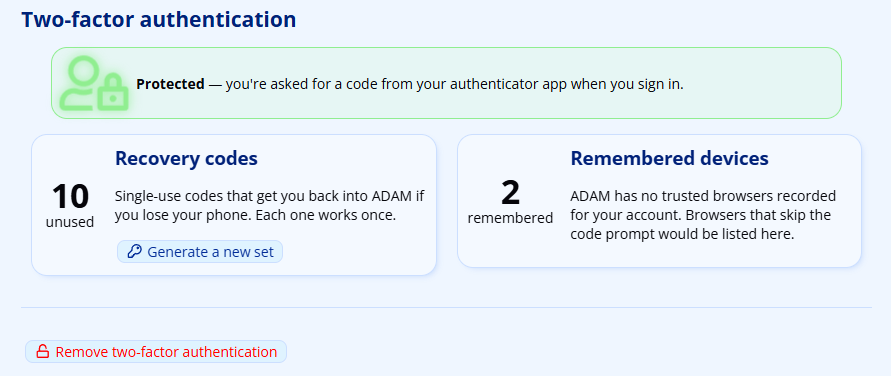
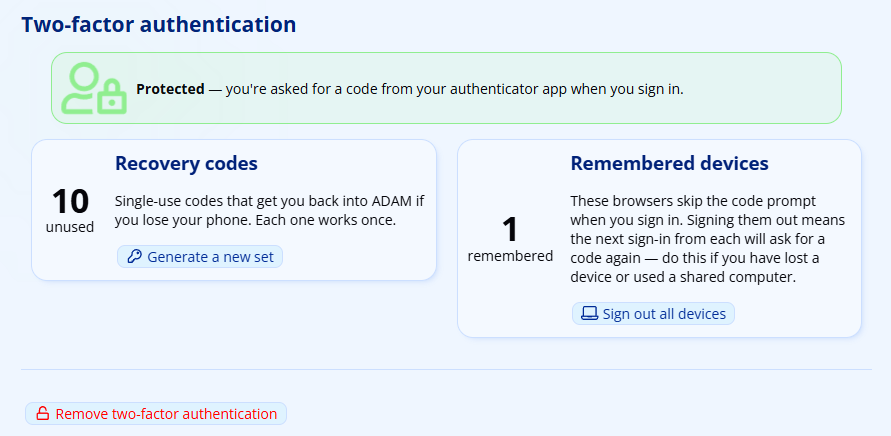
CHANGED: Use the reshot Remembered devices capture
The previous capture showed "2 remembered" beside the wording ADAM uses
when nothing is remembered, and cropped out "Sign out all devices". The
reshoot is consistent and includes the control, so it now supports all
three sections that use it.

The QR codes in -12.png and -13.png are confirmed corrupted and the
database they were captured from no longer exists, so that entry leaves
TODO.md as well.

diff --git a/TODO.md b/TODO.md
@@ -52,40 +52,14 @@ against the rebuilt page and still matches. `-07.png` and `-08.png` were the sam
 management screen — and have been deleted; the *Removing Two-Factor Authentication* section now uses
 `-15.png`.
 
-### 2. `two-factor-authentication-12.png` and `-13.png` — blank out the QR codes
-
-**These two are already captured and in the manual, but they are not finished.** Both show a live,
-scannable QR code. That code carries a working two-factor secret for the demonstration account, so
-anyone who scans it from the published manual gets a valid authenticator entry for that account.
-The page also tells the reader, directly beneath the image, that the code "has been deliberately
-corrupted so that it cannot be scanned" — which is currently untrue.
-
-Blank or corrupt the QR block in both images, and replace the files in place. Nothing else about
-either capture needs changing. Alternatively, if it is easier to leave the images alone, remove the
-two-factor secret from the demonstration account and enrol it again so that the published code no
-longer works — but the sentence claiming the code is corrupted must then be removed from the page as
-well.
-
-### 3. `two-factor-authentication-15.png` — re-capture the Remembered devices card
-
-The capture in the manual contradicts itself: the **Remembered devices** card shows **2 remembered**
-while the words beside the number read "ADAM has no trusted browsers recorded for your account.
-Browsers that skip the code prompt would be listed here." The **Sign out all devices** control that
-*Remembered devices* tells the reader to use is not visible either.
-
-Establish whether the card is genuinely wrong in ADAM — in which case this is a bug to report and
-not a screenshot problem — and if it is not, re-capture with a device list actually showing, and
-with **Sign out all devices** in frame. The image is used twice: in *Remembered devices* and in
-*Removing Two-Factor Authentication*.
-
-### 4. `two-factor-authentication-09.png` — re-capture the removal confirmation
+### 2. `two-factor-authentication-09.png` — re-capture the removal confirmation
 
 The existing image no longer matches the page. *Removing Two-Factor Authentication* says ADAM opens
 a page headed **Remove two-factor authentication**; the image shows the old **Manage Two-Factor
 Authentication** heading and the older styling. Re-capture the password confirmation step, keeping
 the same filename, and correct the page's wording if the heading turns out to differ.
 
-### 5. `two-factor-authentication-for-administrators-01.png` — the coverage screen
+### 3. `two-factor-authentication-for-administrators-01.png` — the coverage screen
 
 New page, new screenshot folder: `docs/assets/screenshots/two-factor-authentication-for-administrators/`.
 
@@ -97,7 +71,7 @@ four reads as empty.
 
 Goes in *The coverage screen*.
 
-### 6. `two-factor-authentication-for-administrators-02.png` — the dashboard reminder card
+### 4. `two-factor-authentication-for-administrators-02.png` — the dashboard reminder card
 
 Sign in as a demo staff member who has not yet set up two-factor authentication, and capture the
 reminder card on their ADAM dashboard.
